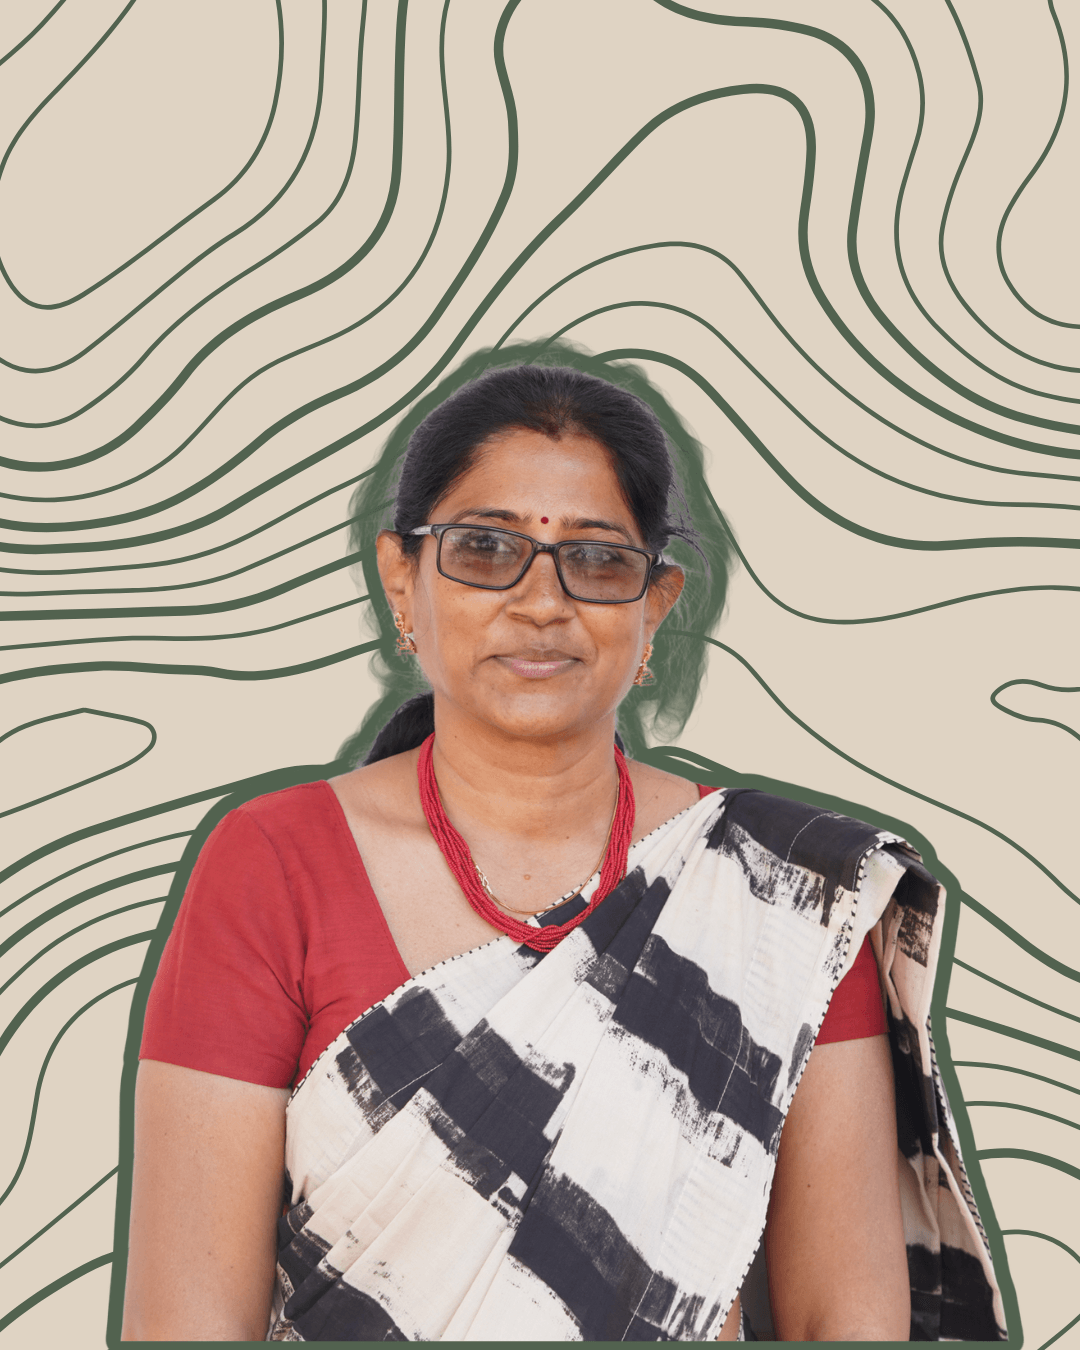
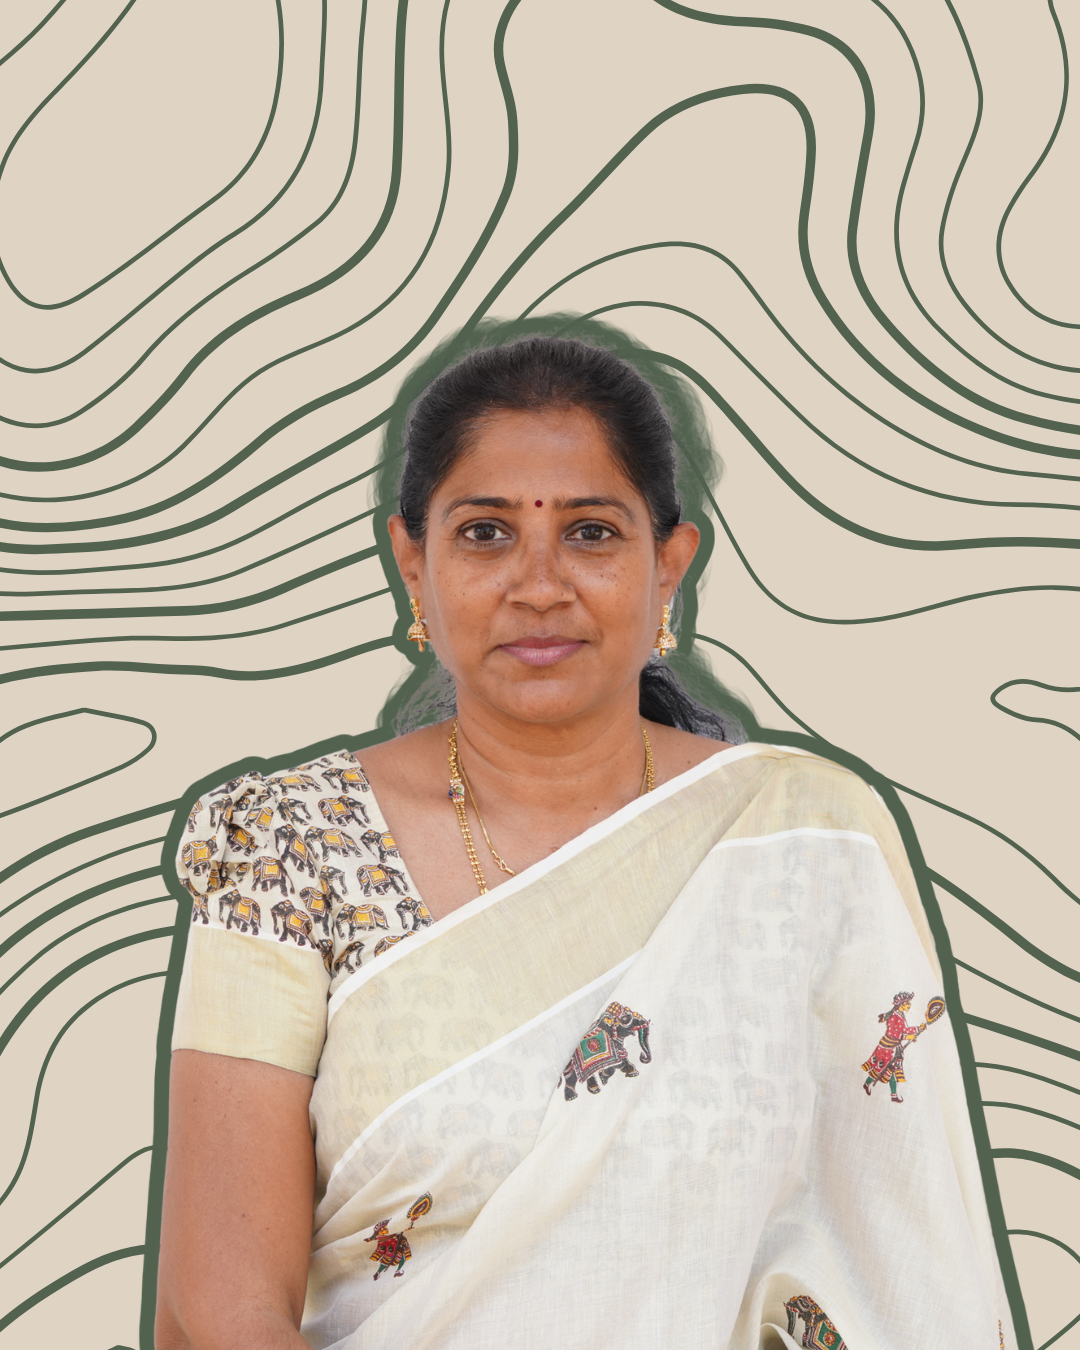
fixed testmonials

diff --git a/src/app/page.tsx b/src/app/page.tsx
@@ -6,7 +6,6 @@ import RevealLoader from "@/components/ui/reveal-loader";
 import Header from "@/components/Header";
 import Image from "next/image";
 import { ParallaxBackground } from "@/components/ui/parallax-background";
-import ScrollProgress from "@/components/ui/scroll-progress";
 import ScrollToTop from "@/components/ui/scroll-to-top";
 import { AnimatedCounter } from "@/components/ui/animated-counter";
 
@@ -454,7 +453,6 @@ export default function Home() {
         textColor="#e9e9e9"
         movementDirection="top-down"
       />
-      <ScrollProgress />
       <ScrollToTop />
       <Header activeSection={activeSection} />
 
@@ -1039,66 +1037,73 @@ export default function Home() {
                       title: "Pasumarthi Sudha Rani — Director",
                       description: "Leading Vagdevi Vidya Mandir has been a journey of passion and purpose. Our commitment to nurturing academic brilliance and moral values continues to shape generations of confident, well-rounded individuals.",
                       image: "/testmonials/Pasumarthi%20Sudha%20Rani.png",
-                      experience: "23 Yrs",
+                      experience: "24 Yrs",
                     },
                     {
                       id: 2,
                       title: "Vijjapu Devi — English Teacher",
                       description: "Teaching at Vagdevi Vidya Mandir has been profoundly rewarding. The supportive environment and focus on holistic development allow us to nurture not just academic excellence but also strong character in our students.",
                       image: "/testmonials/VIJJAPU%20%20DEVI.png",
-                      experience: "21 Yrs",
+                      experience: "22 Yrs",
                     },
                     {
                       id: 3,
-                      title: "Radha Rani Agarwal — Hindi Teacher",
-                      description: "VVM celebrates cultural heritage alongside modern education. Our dedicated approach to Hindi language teaching helps students connect with their roots while building strong communication skills for the future.",
-                      image: "/testmonials/RADHA%20RANI%20AGARWAL.png",
-                      experience: "21 Yrs",
+                      title: "Gampala Bhaskara Rao — Primary Telugu Teacher",
+                      description: "Teaching Telugu at the primary level at VVM has been a deeply fulfilling experience. Instilling a love for the mother tongue in young learners and watching them grow confident in their language skills brings immense joy and purpose to my work.",
+                      image: "/testmonials/GAMPALA%20BHASKARA%20RAO.png",
+                      experience: "16 Yrs",
                     },
                     {
                       id: 4,
-                      title: "Kandukuri Satya Veni — Science Teacher",
-                      description: "The state-of-the-art laboratories and innovative teaching methods here enable us to provide hands-on learning experiences. Watching students discover their passion for science is the most fulfilling aspect of my career.",
-                      image: "/testmonials/KANDUKURI%20SATYA%20VENI.png",
-                      experience: "20 Yrs",
+                      title: "Radha Rani Agarwal — Hindi Teacher",
+                      description: "VVM celebrates cultural heritage alongside modern education. Our dedicated approach to Hindi language teaching helps students connect with their roots while building strong communication skills for the future.",
+                      image: "/testmonials/RADHA%20RANI%20AGARWAL.png",
+                      experience: "22 Yrs",
                     },
                     {
                       id: 5,
-                      title: "Kotinadham Vasundhara Devi — Higher Maths Teacher",
-                      description: "The progressive curriculum and collaborative environment at VVM empower us as educators. Every day, I see students developing into responsible, compassionate young citizens of tomorrow.",
-                      image: "/testmonials/KOTINADHAM%20VASUNDHARA%20DEVI.png",
-                      experience: "18 Yrs",
+                      title: "Kandukuri Satya Veni — Science Teacher",
+                      description: "The state-of-the-art laboratories and innovative teaching methods here enable us to provide hands-on learning experiences. Watching students discover their passion for science is the most fulfilling aspect of my career.",
+                      image: "/testmonials/KANDUKURI%20SATYA%20VENI.png",
+                      experience: "21 Yrs",
                     },
                     {
                       id: 6,
-                      title: "Dalli Sharmila — Mother Teacher",
-                      description: "What sets VVM apart is the emphasis on creative expression and critical thinking. Our students don't just learn; they explore, question, and grow into confident communicators and leaders.",
-                      image: "/testmonials/DALLI%20SHARMILA.png",
-                      experience: "13 Yrs",
+                      title: "Kotinadham Vasundhara Devi — Higher Maths Teacher",
+                      description: "The progressive curriculum and collaborative environment at VVM empower us as educators. Every day, I see students developing into responsible, compassionate young citizens of tomorrow.",
+                      image: "/testmonials/KOTINADHAM%20VASUNDHARA%20DEVI.png",
+                      experience: "19 Yrs",
                     },
                     {
                       id: 7,
-                      title: "Addepalli Krishna Kumari — Pre-Primary Teacher",
-                      description: "Nurturing young minds at VVM is a privilege. Our thoughtful early education approach ensures children develop a strong foundation of curiosity, confidence, and lifelong love for learning.",
-                      image: "/testmonials/ADDEPALLI%20%20%20%20KRISHNA%20%20%20%20KUMARI.png",
-                      experience: "11 Yrs",
+                      title: "Dalli Sharmila — Mother Teacher",
+                      description: "What sets VVM apart is the emphasis on creative expression and critical thinking. Our students don't just learn; they explore, question, and grow into confident communicators and leaders.",
+                      image: "/testmonials/DALLI%20SHARMILA.png",
+                      experience: "14 Yrs",
                     },
                     {
                       id: 8,
-                      title: "Munagapati Ambica — Higher English Teacher",
-                      description: "Being part of the Vagdevi family has been an enriching experience. The school's commitment to nurturing both academic brilliance and moral values makes it a truly exceptional institution to teach at.",
-                      image: "/testmonials/MUNAGAPATI%20%20%20AMBICA.png",
-                      experience: "10 Yrs",
+                      title: "Addepalli Krishna Kumari — Pre-Primary Teacher",
+                      description: "Nurturing young minds at VVM is a privilege. Our thoughtful early education approach ensures children develop a strong foundation of curiosity, confidence, and lifelong love for learning.",
+                      image: "/testmonials/ADDEPALLI%20%20%20%20KRISHNA%20%20%20%20KUMARI.png",
+                      experience: "12 Yrs",
                     },
                     {
                       id: 9,
-                      title: "Gampala Vijayasree — Telugu Teacher",
-                      description: "VVM celebrates creativity and artistic expression. Our dedicated approach to Telugu language and literature inspires students to embrace their cultural heritage while building strong communication skills.",
-                      image: "/testmonials/GAMPALA%20VIJAYASREE.png",
-                      experience: "9 Yrs",
+                      title: "Munagapati Ambica — Higher English Teacher",
+                      description: "Being part of the Vagdevi family has been an enriching experience. The school's commitment to nurturing both academic brilliance and moral values makes it a truly exceptional institution to teach at.",
+                      image: "/testmonials/MUNAGAPATI%20%20%20AMBICA.png",
+                      experience: "11 Yrs",
                     },
                     {
                       id: 10,
+                      title: "Gampala Vijayasree — Telugu Teacher",
+                      description: "VVM celebrates creativity and artistic expression. Our dedicated approach to Telugu language and literature inspires students to embrace their cultural heritage while building strong communication skills.",
+                      image: "/testmonials/GAMPALA%20VIJAYASREE.png",
+                      experience: "10 Yrs",
+                    },
+                    {
+                      id: 11,
                       title: "Yoga Sir — Physical Education & Yoga",
                       description: "The expansive sports facilities and strong emphasis on physical and mental fitness create an ideal environment. Yoga and sports teach discipline, mindfulness, and resilience—values that last a lifetime.",
                       image: "/testmonials/yoga.png",

diff --git a/src/components/ui/testimonials-card.tsx b/src/components/ui/testimonials-card.tsx
@@ -93,8 +93,8 @@ export function TestimonialsCard({
                   initial={{
                     x: offset * 15,
                     y: Math.abs(offset) * 6,
-                    z: -150 * Math.abs(offset),
-                    scale: 0.85 - Math.abs(offset) * 0.04,
+                    z: -80 * Math.abs(offset),
+                    scale: 0.92 - Math.abs(offset) * 0.04,
                     rotateZ: rotations[index % 4],
                     opacity: isActive ? 1 : 0.5,
                     zIndex: 10 - Math.abs(offset),
@@ -102,20 +102,20 @@ export function TestimonialsCard({
                   animate={
                     isActive
                       ? {
-                          x: [offset * 15, direction === 1 ? -200 : 200, 0],
+                          x: [offset * 15, direction === 1 ? -80 : 80, 0],
                           y: [Math.abs(offset) * 6, 0, 0],
-                          z: [-200, 150, 250],
-                          scale: [0.85, 1.05, 1],
-                          rotateZ: [rotations[index % 4], -5, 0],
+                          z: 0,
+                          scale: 1,
+                          rotateZ: [rotations[index % 4], -2, 0],
                           opacity: 1,
                           zIndex: 100,
                         }
                       : {
                           x: offset * 15,
                           y: Math.abs(offset) * 6,
-                          z: -150 * Math.abs(offset),
+                          z: -80 * Math.abs(offset),
                           rotateZ: rotations[index % 4],
-                          scale: 0.85 - Math.abs(offset) * 0.04,
+                          scale: 0.92 - Math.abs(offset) * 0.04,
                           opacity: 0.55,
                           zIndex: 10 - Math.abs(offset),
                         }
